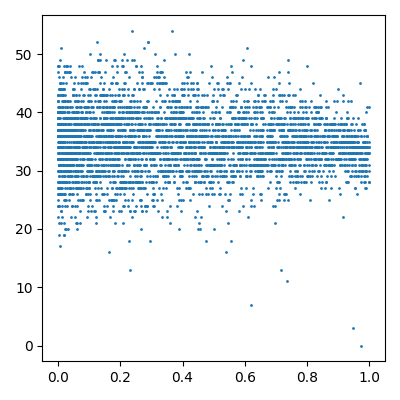
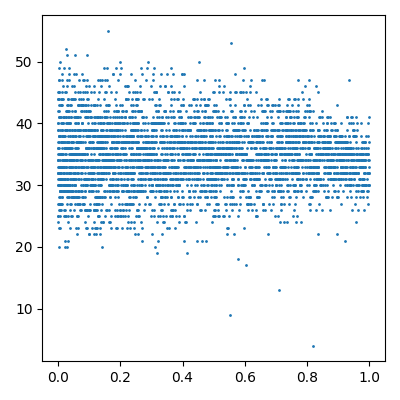
make initial networks a little more robust

diff --git a/paper_figures_21_05_05/paper_figs_circa_21_10/multiple_parametric_21_09_28/single_cell_silent_dist_ordered_21_10_21/run.py b/paper_figures_21_05_05/paper_figs_circa_21_10/multiple_parametric_21_09_28/single_cell_silent_dist_ordered_21_10_21/run.py
@@ -80,7 +80,7 @@ M = Generic(
 
     # Connection probabilities
     MEAN_N_CONS_PER_CELL=35,
-    SYN_PROP_DIST_EXP=1.5,
+    SYN_PROP_DIST_EXP=1.3,
     CON_PROB_FF_CONST=1,
     CON_PROB_R=0.,
     E_I_CON_PROB=0.05,
@@ -89,7 +89,7 @@ M = Generic(
     # Weights
     W_E_I_R=1.5e-5,
     W_E_I_R_MAX=10e-5,
-    W_I_E_R=0.38e-5,
+    W_I_E_R=0.32e-5,
     W_A=0,
     W_E_E_R=0.26 * 0.004 * 1.3,
     W_E_E_R_MAX=0.26 * 0.004 * 10 * 1.3,
